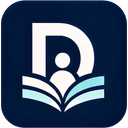
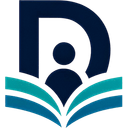
feat(deploy): isotipo SVG y captura de producto para los catálogos
El SVG de marca traía un PNG de 983x344 embebido (281 KB) y las tres
plataformas piden un icono cuadrado: se recorta el isotipo, se reescala el
raster interno a 256 px y baja a 32 KB sin cambiar cómo se ve. Con SVG ya no
hacen falta los recambios JPG/WebP.

La captura es la del arnés de shots (curso listo para publicar), que es lo que
Easypanel exige: producto real con contenido, no un estado vacío.

diff --git a/deploy/README.md b/deploy/README.md
@@ -100,19 +100,20 @@ sustituir los tres marcadores `REEMPLAZA_*` por cadenas aleatorias distintas
 
 ## Iconos
 
-`assets/` sale de [anagrama.png](../apps/web/public/brand/anagrama.png):
+`assets/` lleva el isotipo cuadrado, que es lo que piden los tres catálogos
+(icono, no logotipo con texto):
 
-| Fichero                 | Uso                          |
-| ----------------------- | ---------------------------- |
-| `didacta-icon-128.png`  | Easypanel (`logo.png`)       |
-| `didacta-icon-128.jpg`  | Dokploy, si no hay SVG       |
-| `didacta-icon-256.webp` | Coolify, si no hay SVG       |
-| `didacta-icon-512.png`  | fuente para recortes futuros |
+| Fichero                | Uso                                                |
+| ---------------------- | -------------------------------------------------- |
+| `didacta.svg`          | Coolify (`svgs/didacta.svg`), Dokploy (`logo.svg`) |
+| `didacta-icon-128.png` | Easypanel (`logo.png`)                             |
+| `didacta-icon-512.png` | fuente para recortes futuros                       |
 
-**Falta el SVG.** Coolify y Dokploy prefieren SVG con diferencia (Coolify
-acepta WebP/JPG «como último recurso»), y el anagrama solo existe rasterizado.
-Con el SVG del isotipo se sustituyen los tres primeros y las plantillas ganan
-en calidad de ficha.
+`didacta.svg` es el SVG de marca con el isotipo recortado y el PNG interno
+reescalado a 256 px: pasa de 281 KB a 32 KB sin cambiar cómo se ve. Sigue
+siendo un raster envuelto en SVG, así que **al ampliarlo se pixela**; el día
+que exista el isotipo con trazados vectoriales de verdad, se sustituye este
+fichero y las tres plantillas lo heredan sin tocar nada más.
 
 ## Mantener esto vivo
 
